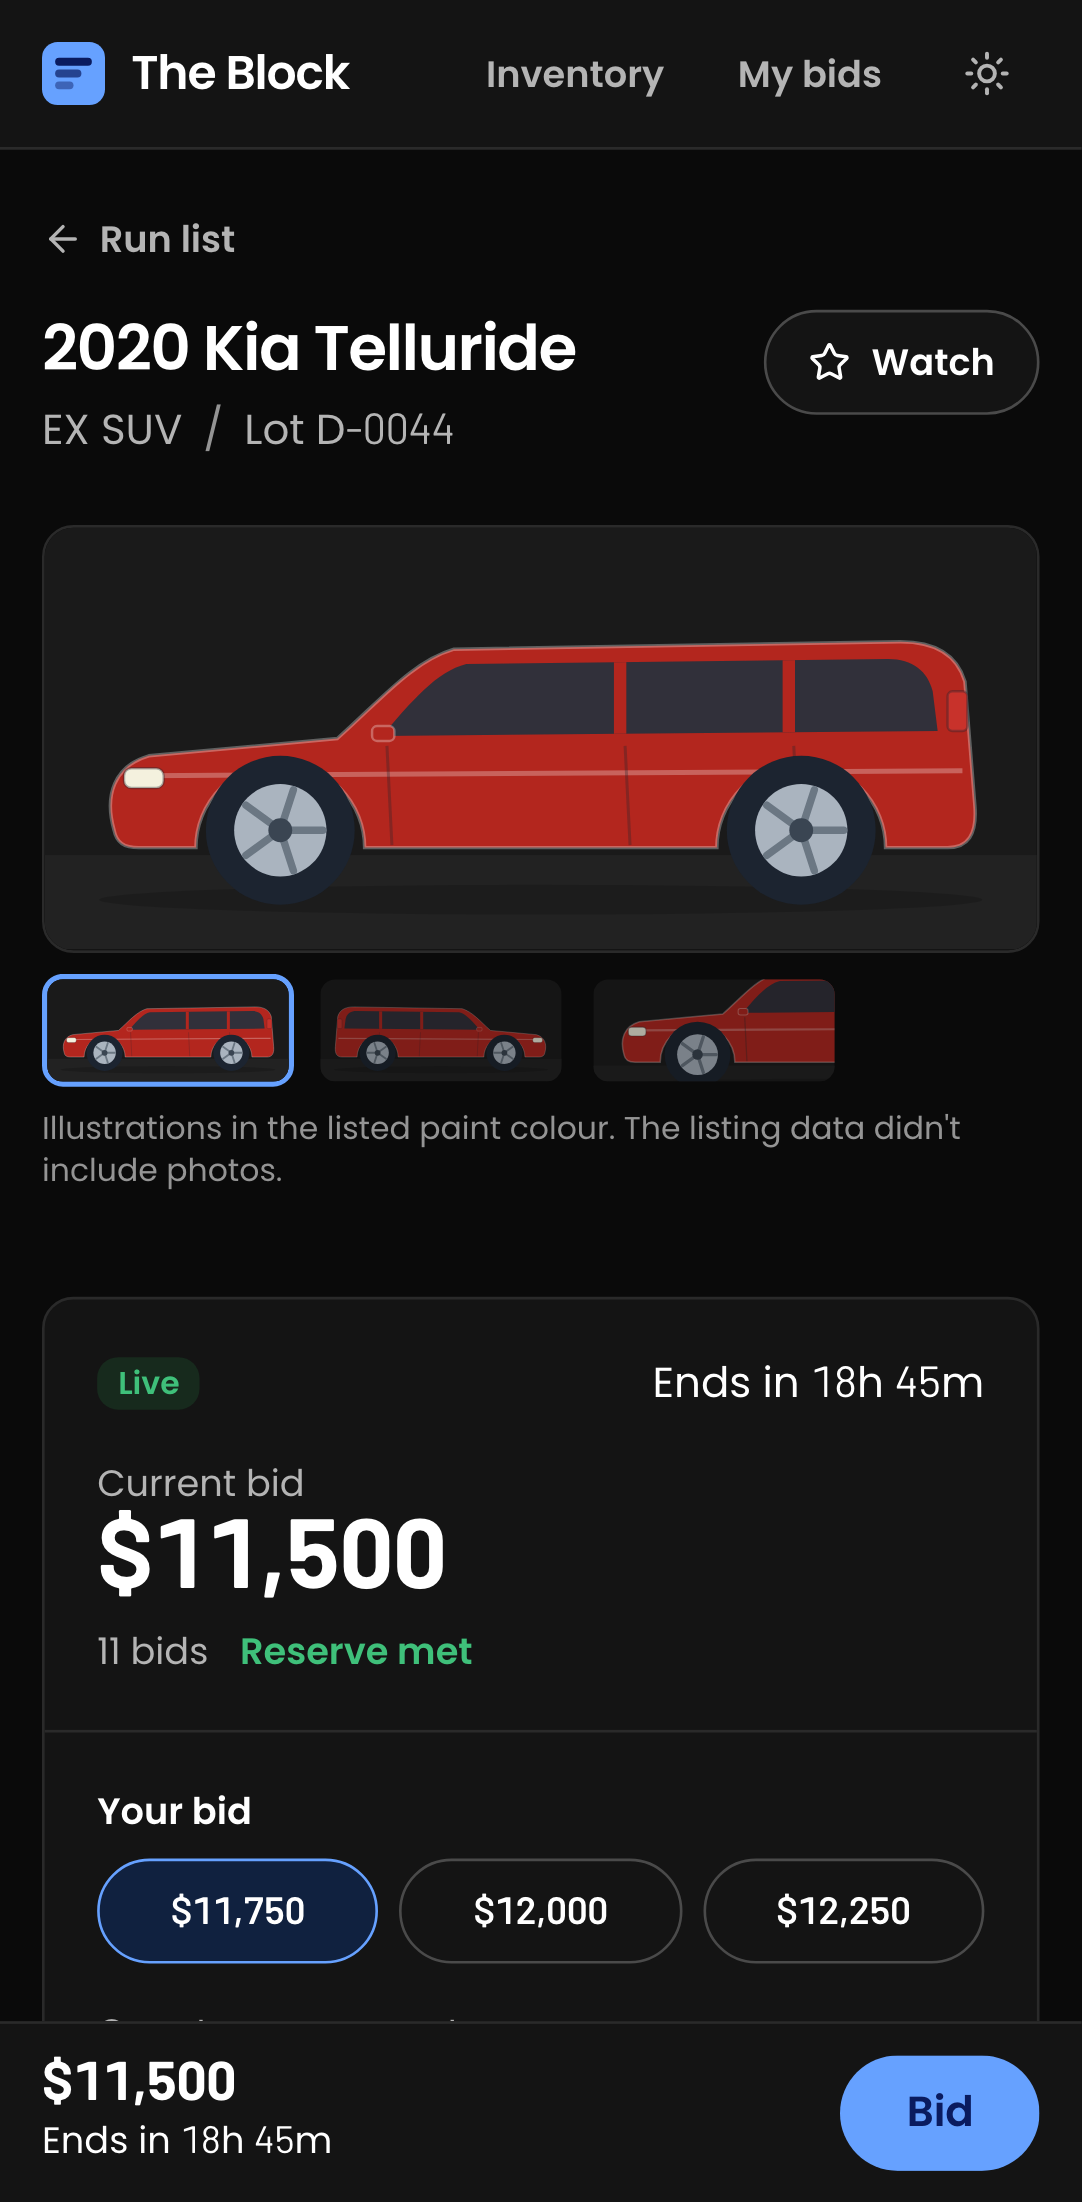
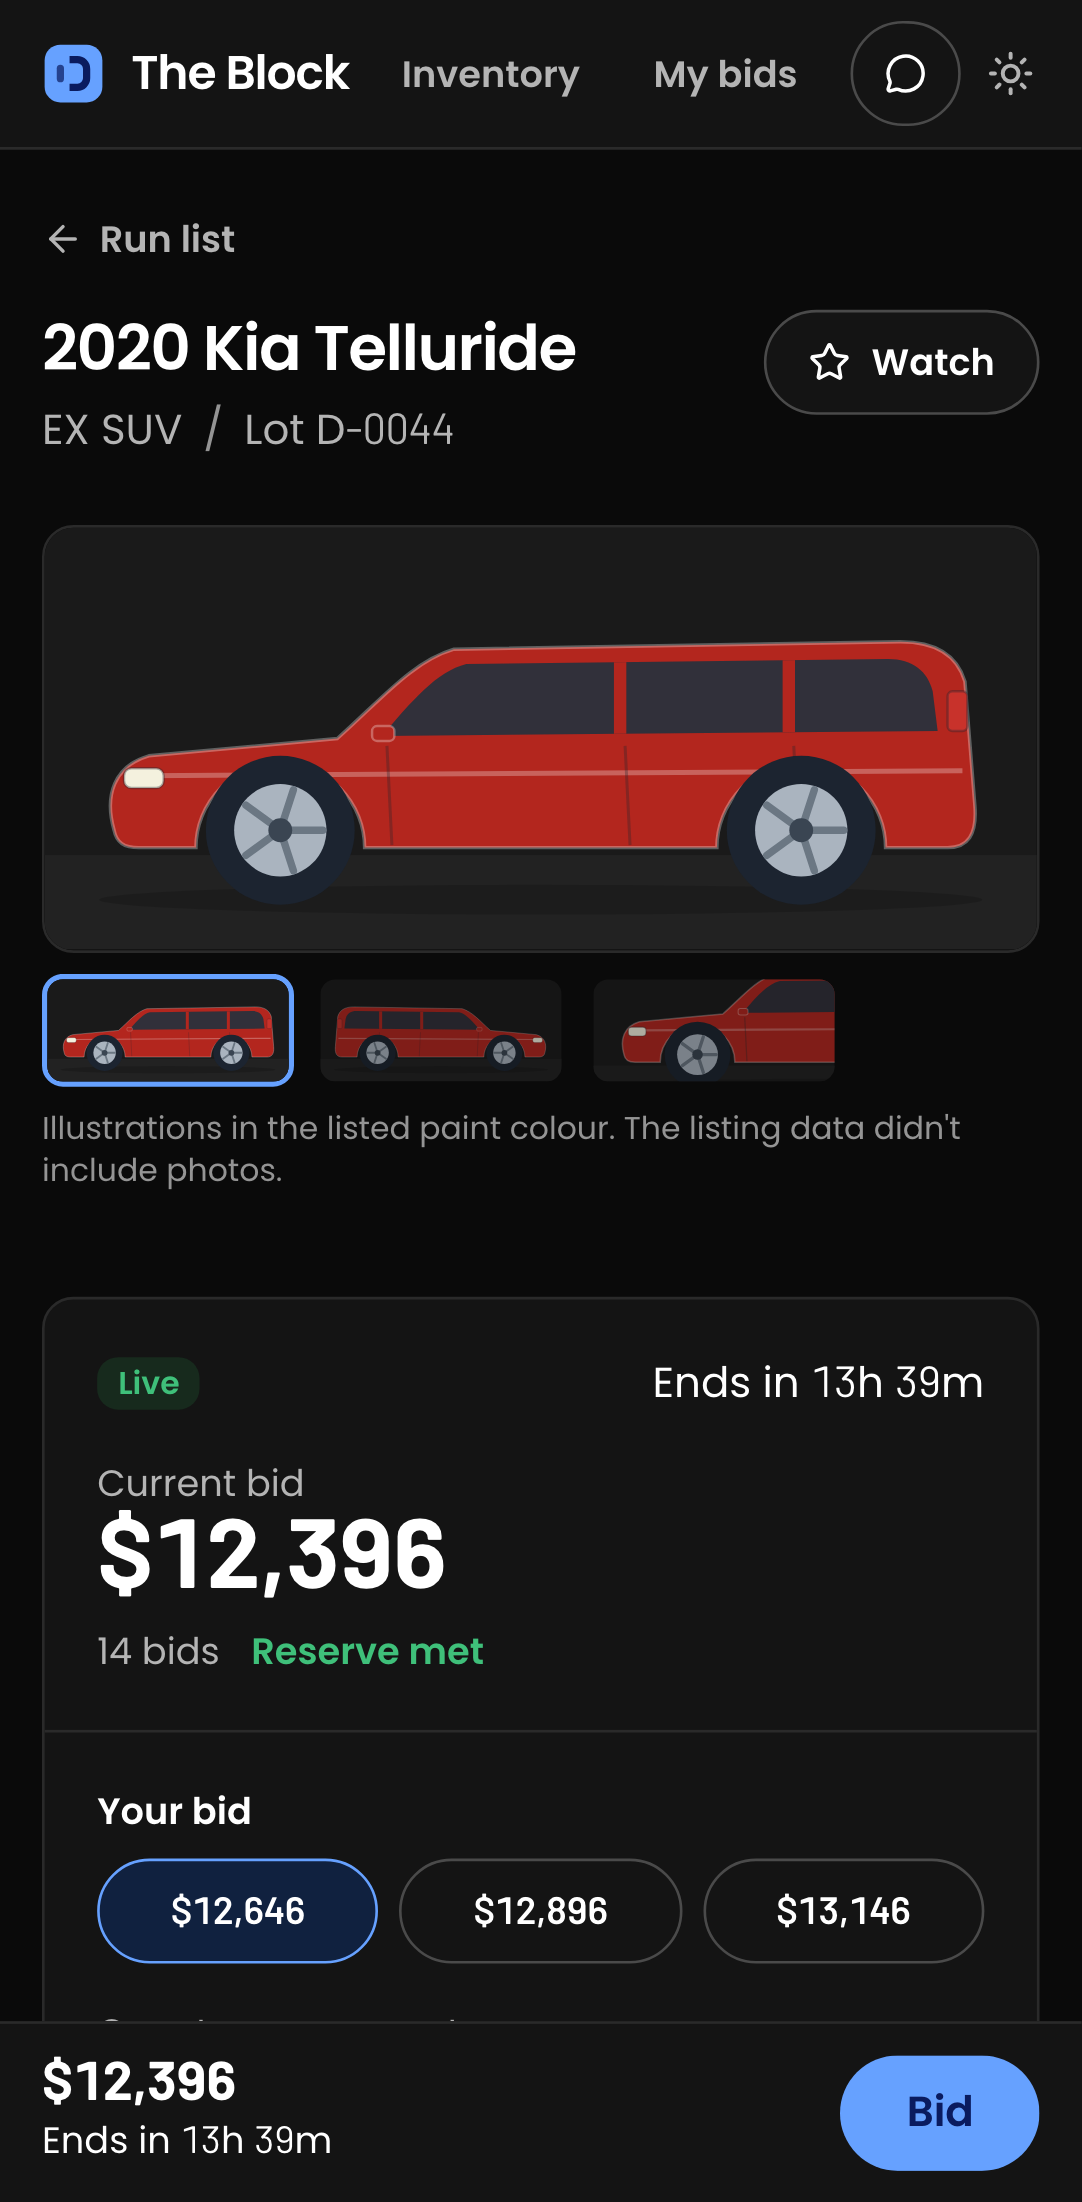
Design: one OPENLANE-style mark for header and tab; condition under the picture
- The browser tab still showed Vite's purple lightning bolt: favicon.svg is now the app's mark.
- The mark keeps its OPENLANE Blue block, drawn in OPENLANE's construction: a closed shape with
  one part set apart (their open O), here a white block whose open side is a separate bar.
- Vehicle page: the car's details read down one column at every width (photos, condition, specs,
  seller) beside the bid column. The three-column wide layout is gone; the column is capped at
  60rem so a large monitor doesn't blow the picture up past the condition report.
- README screenshots regenerated.

diff --git a/web/src/routes/VehicleDetailPage.tsx b/web/src/routes/VehicleDetailPage.tsx
@@ -14,6 +14,13 @@ import { ConditionReport } from './vehicle/ConditionReport'
 import { Gallery } from './vehicle/Gallery'
 import { SpecSheet } from './vehicle/SpecSheet'
 
+/**
+ * The column about the car (photos, condition, specs, seller) shares one width, capped so a
+ * wide monitor doesn't blow the picture up past the condition report: uncapped at 1920px, the
+ * picture alone filled most of the first screen.
+ */
+const DETAILS = 'min-w-0 max-w-[60rem] lg:col-start-1'
+
 export function VehicleDetailPage() {
   const { vehicleId = '' } = useParams()
   // A new vehicle gets fresh component state (draft bids, errors, selected view).
@@ -54,26 +61,26 @@ function VehicleDetailContent({ vehicleId }: { vehicleId: string }) {
       <BackLink />
       <Header vehicle={vehicle} />
       {/* One bid panel, placed by the grid: after the photos on phones, a sticky column on
-          desktop. On wide screens the condition report moves up beside the photos, so the first
-          screen answers "can I trust this car?" as well as "what does it cost?". The last row is
-          1fr: the tall bid column's extra height lands there, not as gaps between sections. */}
-      <div className="mt-6 grid items-start gap-x-8 gap-y-10 lg:grid-cols-[minmax(0,1fr)_clamp(22rem,26vw,27.5rem)] lg:grid-rows-[auto_auto_1fr] 2xl:grid-cols-[minmax(0,1fr)_minmax(0,1fr)_clamp(22rem,24vw,27.5rem)] 2xl:grid-rows-[auto_1fr] 2xl:gap-x-12">
-        <div className="min-w-0 lg:col-start-1 lg:row-start-1">
+          desktop. Everything about the car reads down one column at every width: photos, then
+          its condition, then specs and seller. The last row is 1fr: the tall bid column's extra
+          height lands there, not as gaps between sections. */}
+      <div className="mt-6 grid items-start gap-x-8 gap-y-10 lg:grid-cols-[minmax(0,1fr)_clamp(22rem,26vw,27.5rem)] lg:grid-rows-[auto_auto_1fr] 2xl:gap-x-12">
+        <div className={cn(DETAILS, 'lg:row-start-1')}>
           <Gallery vehicle={vehicle} />
         </div>
         <aside
           aria-label="Bidding"
           id="bid"
-          className="scroll-mt-20 lg:col-start-2 lg:row-span-3 lg:row-start-1 2xl:col-start-3 2xl:row-span-2"
+          className="scroll-mt-20 lg:col-start-2 lg:row-span-3 lg:row-start-1"
         >
           <div className="lg:sticky lg:top-20">
             <BidPanel vehicle={vehicle} />
           </div>
         </aside>
-        <div className="min-w-0 lg:col-start-1 lg:row-start-2 2xl:col-start-2 2xl:row-span-2 2xl:row-start-1">
+        <div className={cn(DETAILS, 'lg:row-start-2')}>
           <ConditionReport vehicle={vehicle} />
         </div>
-        <div className="min-w-0 space-y-10 lg:col-start-1 lg:row-start-3 2xl:row-start-2">
+        <div className={cn(DETAILS, 'space-y-10 lg:row-start-3')}>
           <SpecSheet vehicle={vehicle} />
           <Seller vehicle={vehicle} />
         </div>

diff --git a/web/src/components/AppShell.tsx b/web/src/components/AppShell.tsx
@@ -108,14 +108,28 @@ function AttentionBadge() {
   )
 }
 
-/** The product's mark: a run list (three lots, the first one up) in OPENLANE Blue. */
+/**
+ * The product's mark, built the way OPENLANE builds its own: a closed shape with one part set
+ * apart (their open "O"), here a block with its open side as a separate bar. On OPENLANE Blue,
+ * as before. public/favicon.svg is the same drawing, so the tab and the header match.
+ */
 function BlockMark() {
   return (
     <svg viewBox="0 0 24 24" aria-hidden className="size-6 shrink-0">
-      <rect width="24" height="24" rx="6" fill="var(--action)" />
-      <rect x="5" y="6" width="14" height="3" rx="1.5" fill="var(--action-ink)" />
-      <rect x="5" y="10.5" width="10" height="3" rx="1.5" fill="var(--action-ink)" opacity="0.7" />
-      <rect x="5" y="15" width="7" height="3" rx="1.5" fill="var(--action-ink)" opacity="0.45" />
+      <rect x="1" y="1" width="22" height="22" rx="6" fill="var(--action)" />
+      <path
+        d="M10.5 6.75h3a3.5 3.5 0 0 1 3.5 3.5v3.5a3.5 3.5 0 0 1-3.5 3.5h-3"
+        stroke="var(--action-ink)"
+        strokeWidth="2.75"
+        fill="none"
+      />
+      <path
+        d="M7 10v4"
+        stroke="var(--action-ink)"
+        strokeWidth="2.75"
+        strokeLinecap="round"
+        opacity="0.7"
+      />
     </svg>
   )
 }
